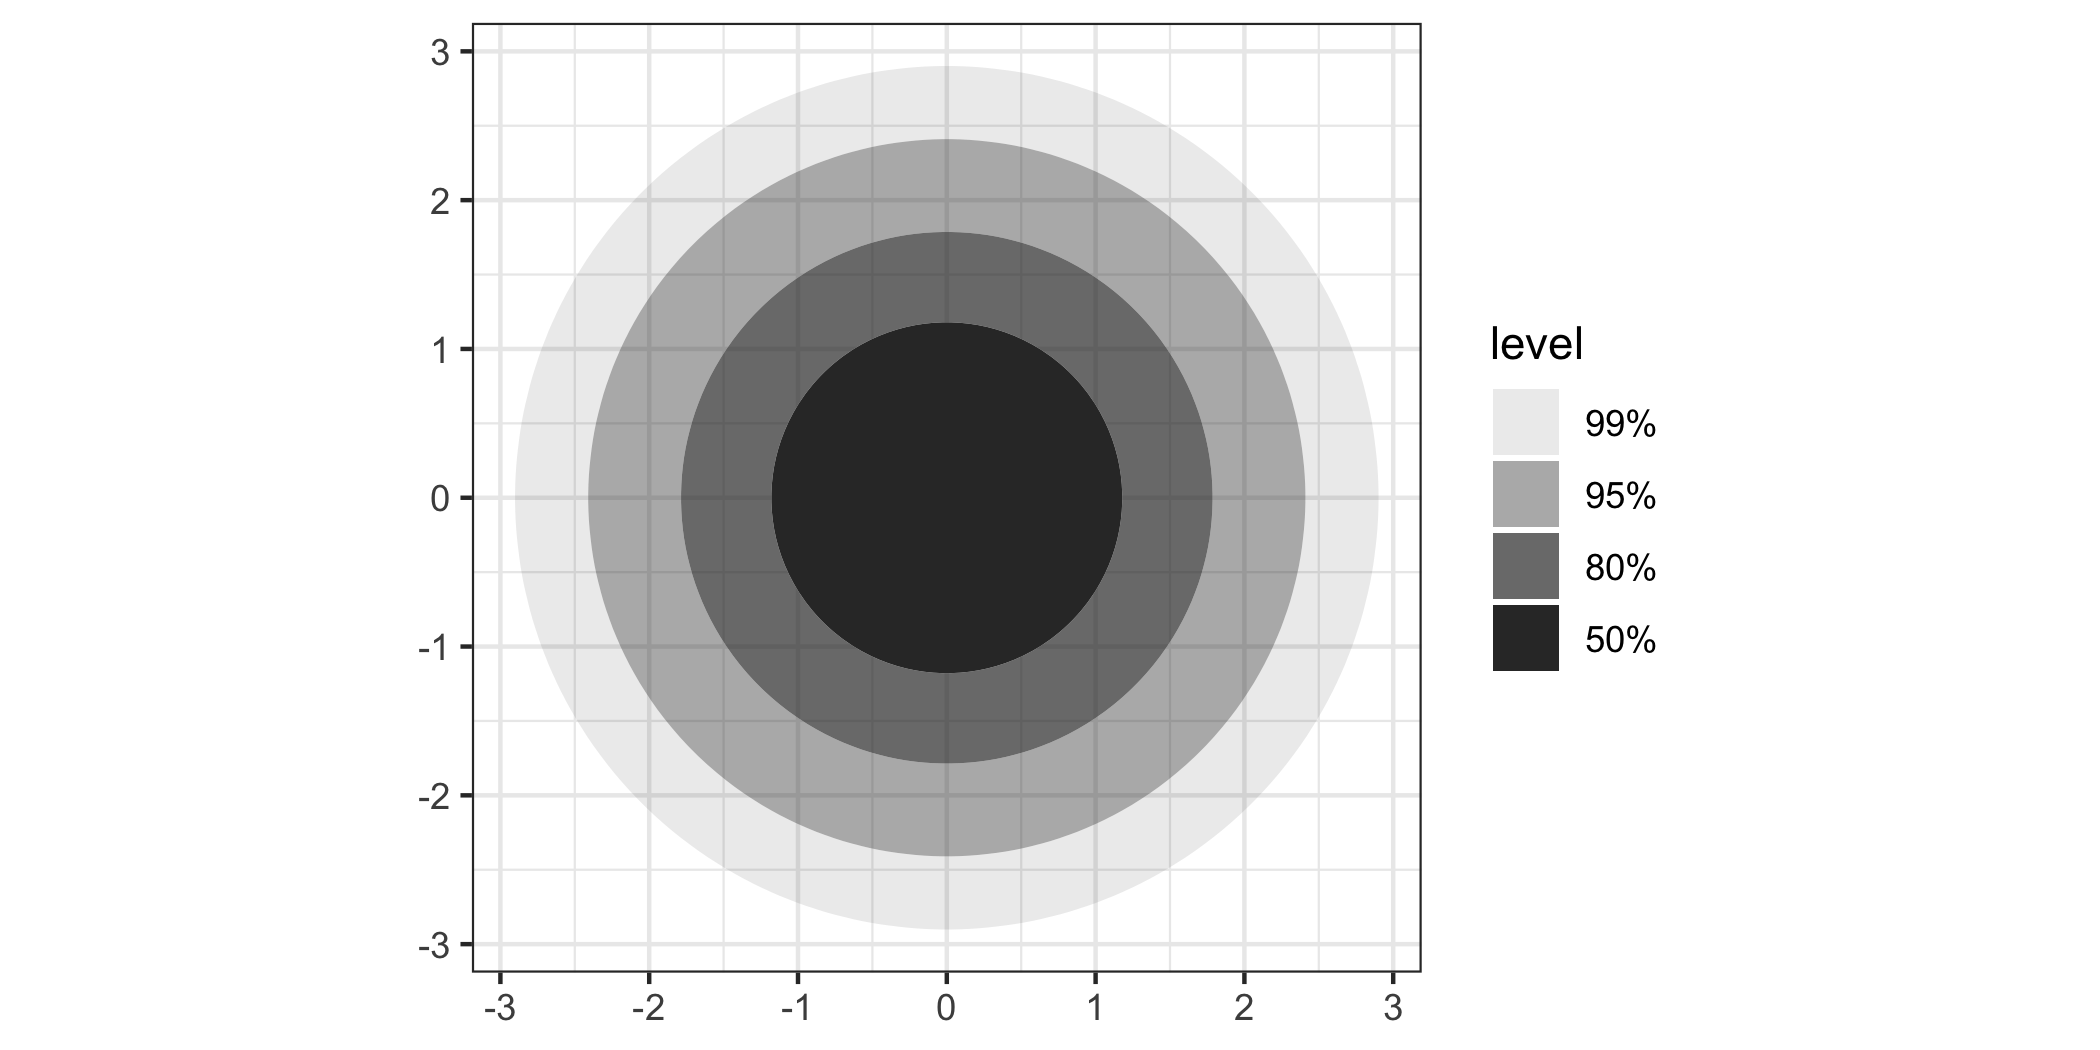
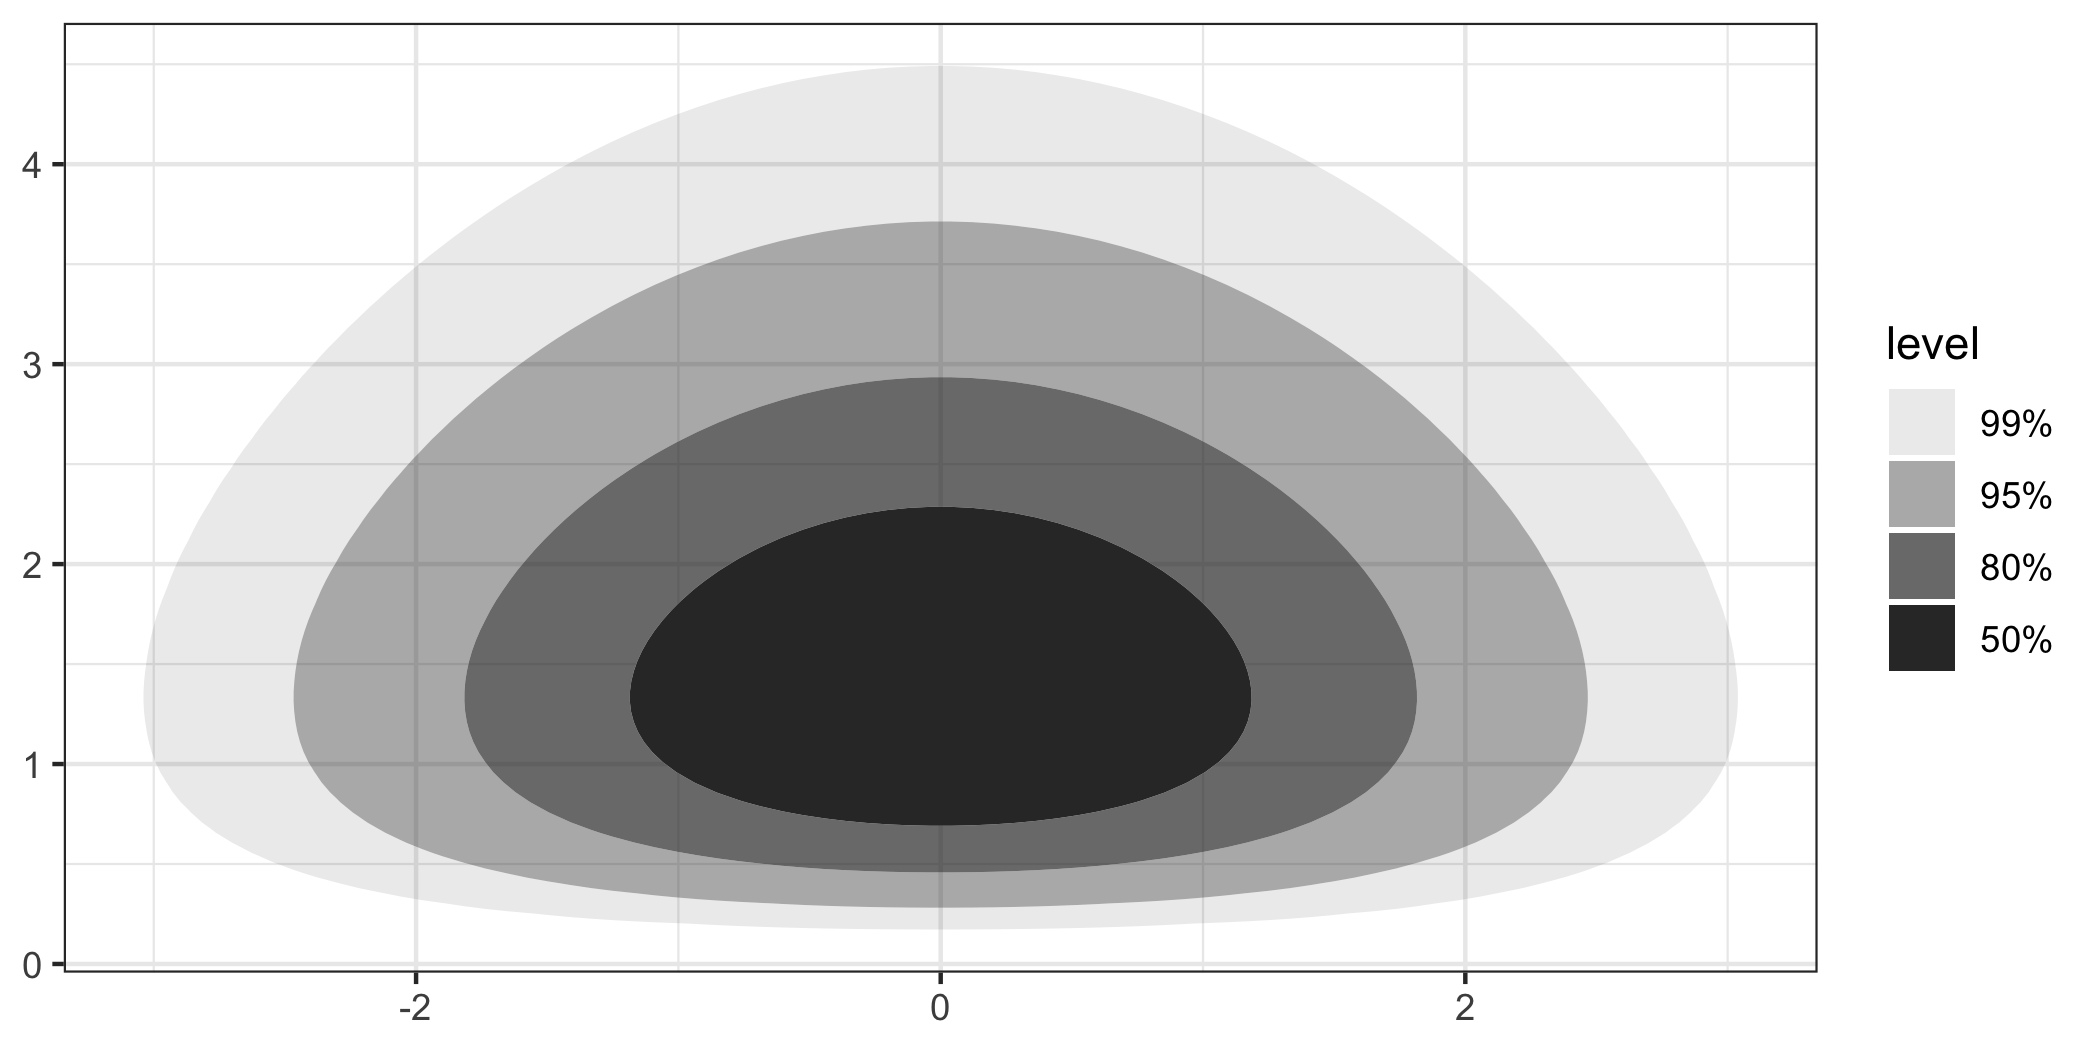
minor readme edits

diff --git a/README.md b/README.md
@@ -39,9 +39,7 @@ Since it’s not on CRAN yet, the implementation interface may shift a
 bit, but we feel it’s stable enough to share with you now, so don’t
 expect big changes.
 
-## Simple Examples
-
-#### `ggplot2::geom_contour_2d()` vs. `ggdensity::geom_hdr()`
+## `ggplot2::geom_contour_2d()` vs. `ggdensity::geom_hdr()`
 
 The standard way to visualize the joint distribution of two continuous
 variables in **ggplot2** is to use `geom_density_2d()` or
@@ -87,7 +85,7 @@ and 99% HDRs of the estimated density, but this can be changed with the
 plot made with `geom_density_2d_filled()` is subtlely yet significantly
 different than that of the plot made by `geom_hdr()`.
 
-#### Visualizing subpopulations and `geom_hdr_lines()`
+## Visualizing subpopulations and `geom_hdr_lines()`
 
 **ggdensity**’s functions were designed to be seamlessly consistent with
 the rest of the **ggplot2** framework. As a consequence, pretty much
@@ -149,7 +147,7 @@ The main point here is that you should really think of `geom_hdr()` and
 `geom_density_2d_filled()`, `geom_density2d()`, and so on, and you can
 expect all of the rest of the **ggplot2** stuff to just work.
 
-#### A deeper cut illustrating **ggplot2** integration
+## A deeper cut illustrating **ggplot2** integration
 
 The underlying stat used by `geom_hdr()` creates the computed variable
 `level` that can be mapped in the standard way you map computed
@@ -181,7 +179,7 @@ ggplot(faithful, aes(eruptions, waiting)) +
 
 <img src="man/figures/README-ex_after_stat-2.png" width="100%" />
 
-#### Statistics details
+## Statistics details
 
 In addition to trying to make the visuals clean and the functions what
 you would expect as a **ggplot2** user, we’ve spent considerable effort
@@ -214,11 +212,10 @@ behave similarly to `geom_function()` from
 argument `fun` specifying the pdf to be summarized. Here’s an example:
 
 ``` r
-f <- function(x, y) dnorm(x) * dnorm(y)
+f <- function(x, y) dnorm(x) * dgamma(y, 5, 3)
 
 ggplot() +
-  geom_hdr_fun(fun = f, xlim = c(-3, 3), ylim = c(-3, 3)) +
-  coord_fixed()
+  geom_hdr_fun(fun = f, xlim = c(-4, 4), ylim = c(0, 5))
 ```
 
 <img src="man/figures/README-ex_hdr_fun_1-1.png" width="100%" />
@@ -227,7 +224,7 @@ ggplot() +
 <!-- In the context of a Bayesian analysis, `geom_hdr()` creates plots of highest posterior regions. -->
 <!-- All we need to do is give `geom_hdr()` a data frame with draws from a posterior, and  -->
 
-#### Visualizing custom parametric density estimates with `geom_hdr_fun()`
+### Visualizing custom parametric density estimates with `geom_hdr_fun()`
 
 In addition to all of the methods of density estimation available with
 `geom_hdr()`, one of the perks of having `geom_hdr_fun()` is that it
@@ -248,7 +245,7 @@ df <- data.frame("x" = rexp(1000, th[1]), "y" = rexp(1000, th[2]))
 
 # construct the likelihood function
 l <- function(th) {
-  log_liks <-apply(df, 1, function(xy) {
+  log_liks <- apply(df, 1, function(xy) {
     dexp(xy[1], rate = th[1], log = TRUE) +
     dexp(xy[2], rate = th[2], log = TRUE)
   })
@@ -271,6 +268,6 @@ ggplot(df, aes(x, y)) +
 
 <img src="man/figures/README-ex_hdr_fun_2-1.png" width="100%" />
 
-#### Stay tuned!
+## Stay tuned!
 
 We have a number of neat new features cooking. Check back soon!
